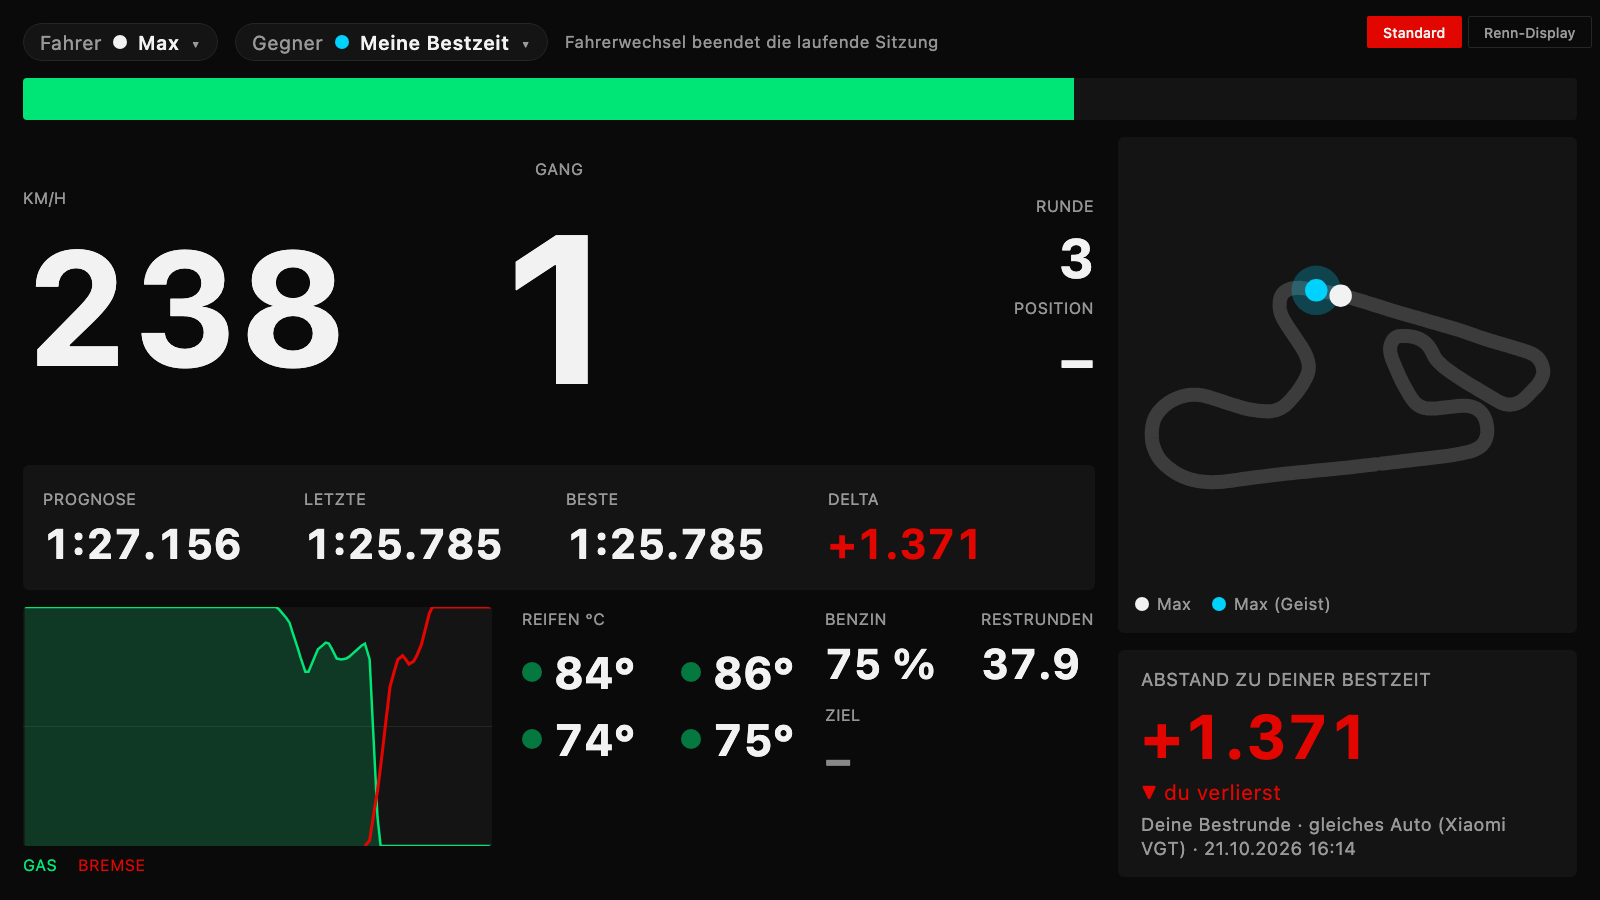
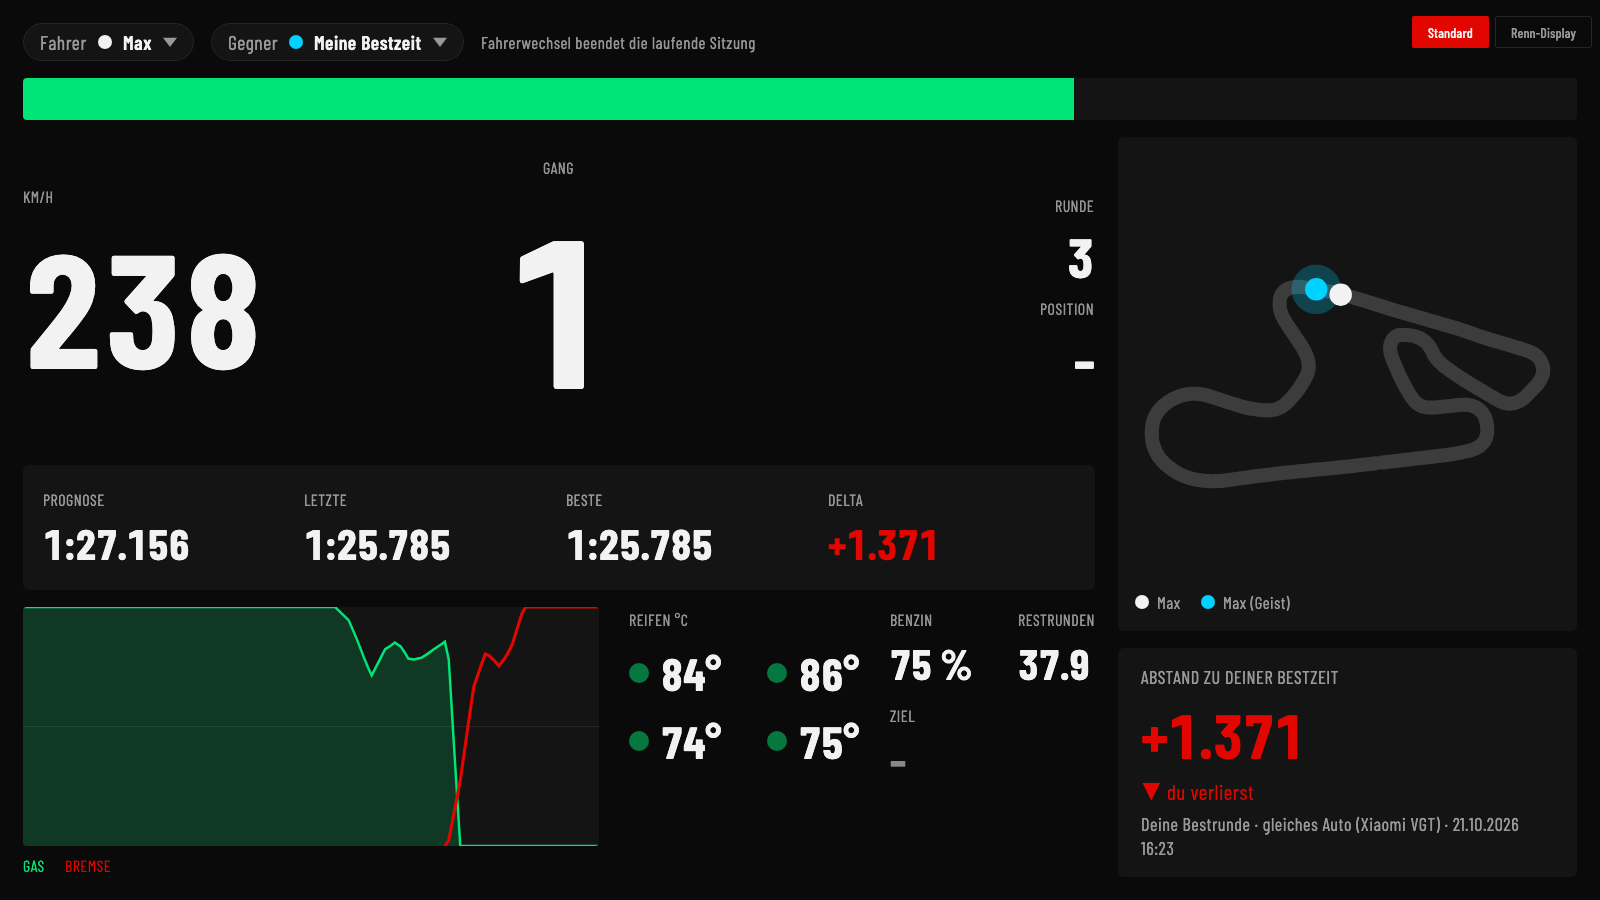
fix(ui): cockpit review findings – theoretical best of lap A's session, fits 1280×800, stepping scrolls the corner list
- the header's theoretical best comes from lap A's session even when lap
  B's session is open
- the map row takes what is left above the delta chart (240–460 dp)
- stepping scrolls only the corner list to the selected corner and its
  details, the page stays put
- screenshots with Barlow Condensed

diff --git a/shared/src/commonMain/kotlin/de/stiller/gt7/ui/CornerList.kt b/shared/src/commonMain/kotlin/de/stiller/gt7/ui/CornerList.kt
@@ -1,5 +1,12 @@
 package de.stiller.gt7.ui
 
+import androidx.compose.ui.layout.positionInParent
+import androidx.compose.ui.layout.onGloballyPositioned
+import androidx.compose.foundation.verticalScroll
+import androidx.compose.foundation.rememberScrollState
+import androidx.compose.runtime.withFrameNanos
+import androidx.compose.runtime.remember
+import androidx.compose.runtime.LaunchedEffect
 import androidx.compose.foundation.background
 import androidx.compose.foundation.clickable
 import androidx.compose.foundation.layout.Arrangement
@@ -60,6 +67,13 @@ fun stepCorner(corners: List<Corner>, selected: Corner?, direction: Int): Corner
 fun costliestCorners(reports: List<CornerReport>, count: Int = 3): Set<Int> =
     reports.filter { it.lossMs > 0 }.sortedByDescending { it.lossMs }.take(count).map { it.corner.number }.toSet()
 
+/** Scroll position (px) that shows a row from [rowTop] to [rowBottom] in a [viewport] scrolled to [current]; null if it is in view. */
+fun scrollToShow(rowTop: Int, rowBottom: Int, current: Int, viewport: Int): Int? = when {
+    rowTop < current -> rowTop
+    rowBottom > current + viewport -> minOf(rowTop, rowBottom - viewport)
+    else -> null
+}
+
 /** Length of the loss bar, 0–1, relative to the largest loss or gain of all corners. */
 fun lossBarFraction(report: CornerReport, reports: List<CornerReport>): Float {
     val max = reports.maxOfOrNull { abs(it.lossMs) } ?: 0
@@ -88,9 +102,26 @@ fun Modifier.cornerKeys(state: EngineerState, viewport: AnalysisViewport): Modif
 
 /** Every corner in driving order with its loss; the selected one shows the tip and its measures. */
 @Composable
-fun CornerList(state: EngineerState, language: TipLanguage, viewport: AnalysisViewport, modifier: Modifier = Modifier) {
+fun CornerList(
+    state: EngineerState,
+    language: TipLanguage,
+    viewport: AnalysisViewport,
+    modifier: Modifier = Modifier,
+    scrollable: Boolean = false,
+) {
     val compact = LocalCompact.current
-    Column(modifier.background(RaceColors.Surface).padding(8.dp)) {
+    val scroll = rememberScrollState()
+    // top and bottom (px) of each corner's row within the list, for scrolling the selected one into view
+    val rows = remember { mutableMapOf<Int, IntRange>() }
+    val selected = viewport.selectedCorner
+    LaunchedEffect(selected) {
+        if (!scrollable || selected == null) return@LaunchedEffect
+        // one frame later the expanded details are laid out and measured
+        withFrameNanos { }
+        val row = rows[selected.number] ?: return@LaunchedEffect
+        scrollToShow(row.first, row.last, scroll.value, scroll.viewportSize)?.let { scroll.animateScrollTo(it) }
+    }
+    Column((if (scrollable) modifier.verticalScroll(scroll) else modifier).background(RaceColors.Surface).padding(8.dp)) {
         Row(verticalAlignment = Alignment.CenterVertically) {
             RaceLabel("Kurven", Modifier.weight(1f))
             val corners = state.cornerList()
@@ -110,7 +141,15 @@ fun CornerList(state: EngineerState, language: TipLanguage, viewport: AnalysisVi
         message?.let { Text(it, style = MaterialTheme.typography.bodySmall, color = RaceColors.TextMuted, modifier = Modifier.padding(vertical = 4.dp)) }
         val reports = (state as? EngineerState.Ready)?.debrief?.reports ?: return@Column
         val costliest = costliestCorners(reports)
-        reports.forEach { r -> CornerRow(r, reports, r.corner.number in costliest, viewport.selectedCorner == r.corner, compact, language) { viewport.toggleCorner(r.corner) } }
+        reports.forEach { r ->
+            CornerRow(
+                r, reports, r.corner.number in costliest, selected == r.corner, compact, language,
+                Modifier.onGloballyPositioned { c ->
+                    val top = c.positionInParent().y.toInt()
+                    rows[r.corner.number] = top..(top + c.size.height)
+                },
+            ) { viewport.toggleCorner(r.corner) }
+        }
     }
 }
 
@@ -122,10 +161,11 @@ private fun lossColor(ms: Int) = when {
 
 @Composable
 private fun CornerRow(
-    r: CornerReport, all: List<CornerReport>, costly: Boolean, selected: Boolean, compact: Boolean, language: TipLanguage, onClick: () -> Unit,
+    r: CornerReport, all: List<CornerReport>, costly: Boolean, selected: Boolean, compact: Boolean, language: TipLanguage,
+    modifier: Modifier, onClick: () -> Unit,
 ) {
     val numbers = digits(13.sp, raceFontFamily()).copy(fontWeight = FontWeight.SemiBold)
-    Column(Modifier.fillMaxWidth().background(if (selected) RaceColors.SurfaceRaised else Color.Transparent).clickable(onClick = onClick)) {
+    Column(modifier.fillMaxWidth().background(if (selected) RaceColors.SurfaceRaised else Color.Transparent).clickable(onClick = onClick)) {
         Row(Modifier.padding(horizontal = 4.dp, vertical = 5.dp), verticalAlignment = Alignment.CenterVertically) {
             Text(markerLabel(r.corner.number), style = numbers, modifier = Modifier.width(34.dp))
             Box(Modifier.size(6.dp).clip(CircleShape).background(if (costly) RaceColors.Accent else Color.Transparent))

diff --git a/shared/src/commonMain/kotlin/de/stiller/gt7/ui/CockpitAnalysis.kt b/shared/src/commonMain/kotlin/de/stiller/gt7/ui/CockpitAnalysis.kt
@@ -1,5 +1,6 @@
 package de.stiller.gt7.ui
 
+import androidx.compose.foundation.layout.BoxWithConstraints
 import androidx.compose.foundation.layout.width
 import androidx.compose.foundation.layout.Spacer
 import androidx.compose.foundation.Canvas
@@ -47,7 +48,6 @@ import de.stiller.gt7.storage.SessionSummary
 import kotlinx.coroutines.Dispatchers
 import kotlinx.coroutines.withContext
 
-private val MapRowHeight = 400.dp
 private val MainChartHeight = 180.dp
 private val PedalChartHeight = 150.dp
 private val MoreChartHeight = 120.dp
@@ -68,6 +68,7 @@ fun CockpitAnalysis(
     picked: CockpitLaps,
     laps: List<LapSummary>,
     loadSamples: (Long) -> List<LapSample>,
+    loadLaps: (Long) -> List<LapSummary>,
     carName: (Int) -> String,
     moreChannels: Boolean,
     onMoreChannels: (Boolean) -> Unit,
@@ -78,19 +79,27 @@ fun CockpitAnalysis(
     val corners = (engineer as? EngineerState.Ready)?.debrief?.reports?.map { it.corner } ?: emptyList()
     var shares by remember { mutableStateOf<Map<Long, InputShares>>(emptyMap()) }
     var stats by remember { mutableStateOf<LapTableStats?>(null) }
-    LaunchedEffect(laps) {
+    // the header's theoretical best belongs to lap A's session, which need not be the open one
+    var statsA by remember { mutableStateOf<LapTableStats?>(null) }
+    LaunchedEffect(laps, picked.lapA.sessionId) {
+        stats = null
+        statsA = null
         withContext(Dispatchers.Default) {
             val samples = laps.associate { it.id to loadSamples(it.id) }
             shares = samples.mapValues { inputShares(it.value) }
             stats = lapTableStats(laps, samples)
+            val lapsA = sessionLapsOfA(picked.lapA, laps, loadLaps)
+            statsA = if (lapsA === laps) stats else lapTableStats(lapsA, lapsA.associate { it.id to loadSamples(it.id) })
         }
     }
-    val header = cockpitHeader(picked.lapA, picked.sessionA, picked.pickedB, picked.sessionB, engineer, stats, carName)
+    val header = cockpitHeader(picked.lapA, picked.sessionA, picked.pickedB, picked.sessionB, engineer, statsA, carName)
     val focus = remember { FocusRequester() }
     LaunchedEffect(viewport) { runCatching { focus.requestFocus() } }
 
+    BoxWithConstraints(modifier) {
+    val mapRow = mapRowHeight(maxHeight.value).dp
     Column(
-        modifier.focusRequester(focus).focusable().cornerKeys(engineer, viewport).verticalScroll(rememberScrollState()).padding(8.dp),
+        Modifier.fillMaxSize().focusRequester(focus).focusable().cornerKeys(engineer, viewport).verticalScroll(rememberScrollState()).padding(8.dp),
         verticalArrangement = Arrangement.spacedBy(8.dp),
     ) {
         Row(Modifier.fillMaxWidth(), horizontalArrangement = Arrangement.End) { toolbar() }
@@ -105,13 +114,14 @@ fun CockpitAnalysis(
             map(Modifier.fillMaxWidth().aspectRatio(1.2f))
             CornerList(engineer, language, viewport, Modifier.fillMaxWidth())
         } else {
-            Row(Modifier.fillMaxWidth().height(MapRowHeight), horizontalArrangement = Arrangement.spacedBy(8.dp)) {
+            Row(Modifier.fillMaxWidth().height(mapRow), horizontalArrangement = Arrangement.spacedBy(8.dp)) {
                 map(Modifier.weight(0.6f).fillMaxHeight())
-                CornerList(engineer, language, viewport, Modifier.weight(0.4f).fillMaxHeight().verticalScroll(rememberScrollState()))
+                CornerList(engineer, language, viewport, Modifier.weight(0.4f).fillMaxHeight(), scrollable = true)
             }
         }
         Charts(viewport, corners, moreChannels, onMoreChannels)
         SessionLaps(laps, shares, stats, Modifier.fillMaxWidth().padding(top = 8.dp))
+    }
     }
 }
 

diff --git a/shared/src/desktopTest/kotlin/de/stiller/gt7/screens/ReadmeScreenshots.kt b/shared/src/desktopTest/kotlin/de/stiller/gt7/screens/ReadmeScreenshots.kt
@@ -172,9 +172,19 @@ class ReadmeScreenshots {
         val picked = CockpitLaps(lapA, sessions.first { it.id == lapA.sessionId }, lapB, sessions.first { it.id == lapB.sessionId })
         shot("analysis", 1280, 900, frames = 12) {
             CockpitAnalysis(
-                vp, state, TipLanguage.DE, picked, laps, repo::samples, cars::name, moreChannels = false, onMoreChannels = {},
+                vp, state, TipLanguage.DE, picked, laps, repo::samples, repo::laps, cars::name, moreChannels = false, onMoreChannels = {},
                 toolbar = { ChartToolbar(vp) }, modifier = Modifier.fillMaxSize(),
             )
+        }
+        if (System.getenv("SCREENSHOT_CHECK") != null) {
+            // the space a 1280 × 800 window leaves beside the lap list, with the last corner picked
+            val last = AnalysisViewport(slow, fast).also { v -> debrief.reports.lastOrNull()?.corner?.let { v.toggleCorner(it) } }
+            shot("check-cockpit-940x724", 940, 724, frames = 12) {
+                CockpitAnalysis(
+                    last, state, TipLanguage.DE, picked, laps, repo::samples, repo::laps, cars::name, moreChannels = false, onMoreChannels = {},
+                    toolbar = { ChartToolbar(last) }, modifier = Modifier.fillMaxSize(),
+                )
+            }
         }
         println("comparison $comparison")
     }

diff --git a/shared/src/commonTest/kotlin/de/stiller/gt7/ui/CockpitHeaderTest.kt b/shared/src/commonTest/kotlin/de/stiller/gt7/ui/CockpitHeaderTest.kt
@@ -59,4 +59,23 @@ class CockpitHeaderTest {
     fun stillComputing() {
         assertEquals("Vergleich|…|null|Neutral", cockpitHeader(lapA, session, null, null, EngineerState.Computing, stats, car)[1].short())
     }
+
+    @Test
+    fun theoreticalBestComesFromLapAsSessionEvenWhenAnotherSessionIsOpen() {
+        val openLaps = listOf(LapSummary(30, 2, 1, 80_000, 1f, true), LapSummary(31, 2, 2, 81_000, 1f, true))
+        val ownLaps = listOf(lapA, LapSummary(15, 1, 2, 91_000, 1f, true))
+        var loaded: Long? = null
+        assertEquals(ownLaps, sessionLapsOfA(lapA, openLaps) { loaded = it; ownLaps })
+        assertEquals(1L, loaded)
+        // A's own session is open: no extra loading
+        assertEquals(ownLaps, sessionLapsOfA(lapA, ownLaps) { error("must not load") })
+    }
+
+    @Test
+    fun mapRowTakesWhatIsLeftAboveTheDeltaChart() {
+        // 1280 × 800 window minus title bar and tab row leaves about 724 dp for the cockpit
+        assertEquals(344f, mapRowHeight(724f))
+        assertEquals(460f, mapRowHeight(1200f))
+        assertEquals(240f, mapRowHeight(400f))
+    }
 }

diff --git a/shared/src/commonMain/kotlin/de/stiller/gt7/ui/CockpitHeader.kt b/shared/src/commonMain/kotlin/de/stiller/gt7/ui/CockpitHeader.kt
@@ -49,3 +49,13 @@ fun cockpitHeader(
             ?: HeaderCard("Theoretisch", NONE, null, Tone.Neutral),
     )
 }
+
+/** Laps of lap A's session: the open session's laps when A comes from it, else [load]ed — B may come from another session. */
+fun sessionLapsOfA(lapA: LapSummary, openLaps: List<LapSummary>, load: (Long) -> List<LapSummary>): List<LapSummary> =
+    if (openLaps.any { it.sessionId == lapA.sessionId }) openLaps else load(lapA.sessionId)
+
+/** Space the cockpit keeps for padding, toolbar, header cards, delta chart and gaps, so the delta chart stays in view. */
+private const val RESERVED_DP = 380f
+
+/** Height (dp) of the map and corner-list row for a cockpit [availableDp] high: what is left, within sensible bounds. */
+fun mapRowHeight(availableDp: Float): Float = (availableDp - RESERVED_DP).coerceIn(240f, 460f)

diff --git a/shared/src/commonTest/kotlin/de/stiller/gt7/ui/CornerListTest.kt b/shared/src/commonTest/kotlin/de/stiller/gt7/ui/CornerListTest.kt
@@ -38,4 +38,14 @@ class CornerListTest {
         val none = reports(0, 0)
         assertEquals(listOf(0f, 0f), none.map { lossBarFraction(it, none) })
     }
+
+    @Test
+    fun scrollOnlyAsFarAsTheSelectedRowNeeds() {
+        // viewport 0..400 px
+        assertNull(scrollToShow(rowTop = 100, rowBottom = 160, current = 0, viewport = 400))
+        assertEquals(260, scrollToShow(rowTop = 600, rowBottom = 660, current = 0, viewport = 400))
+        assertEquals(50, scrollToShow(rowTop = 50, rowBottom = 110, current = 200, viewport = 400))
+        // a row taller than the viewport shows its top
+        assertEquals(600, scrollToShow(rowTop = 600, rowBottom = 1100, current = 0, viewport = 400))
+    }
 }

diff --git a/shared/src/commonMain/kotlin/de/stiller/gt7/ui/AnalysisScreen.kt b/shared/src/commonMain/kotlin/de/stiller/gt7/ui/AnalysisScreen.kt
@@ -157,7 +157,7 @@ fun AnalysisScreen(
                 CockpitAnalysis(
                     viewport, engineer, language,
                     CockpitLaps(lapA, sessions.firstOrNull { it.id == lapA.sessionId }, pickedB, pickedB?.let { b -> sessions.firstOrNull { it.id == b.sessionId } }),
-                    laps, repo::samples, cars::name, moreChannels, { moreChannels = it },
+                    laps, repo::samples, repo::laps, cars::name, moreChannels, { moreChannels = it },
                     toolbar = {
                         Row(Modifier.horizontalScroll(rememberScrollState()), verticalAlignment = Alignment.CenterVertically) {
                             ChartToolbar(viewport)
